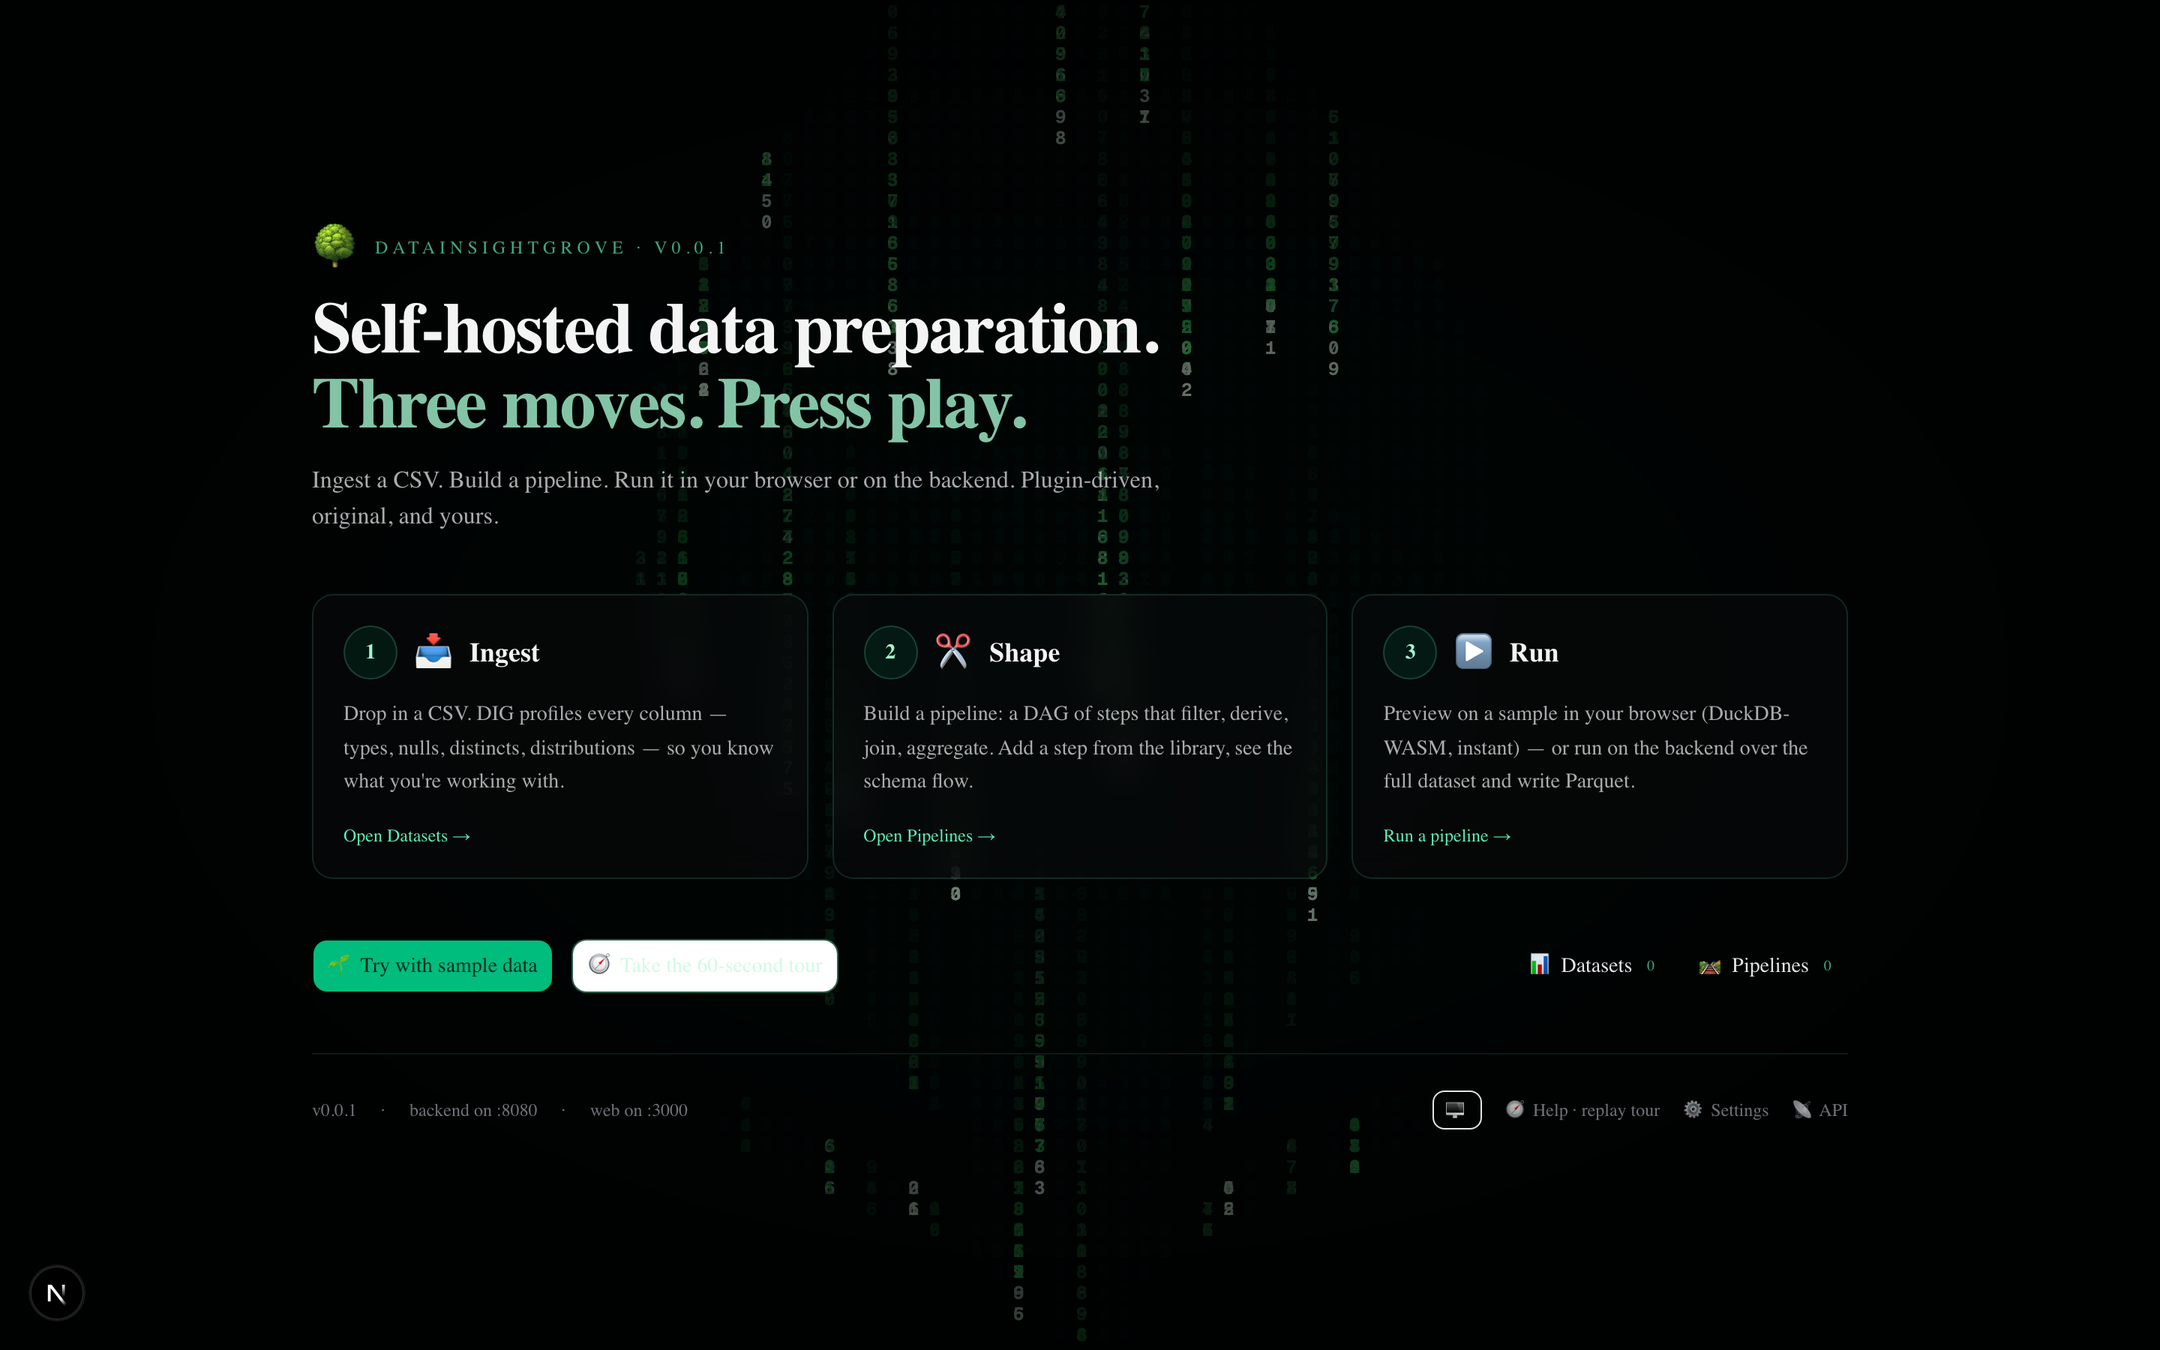
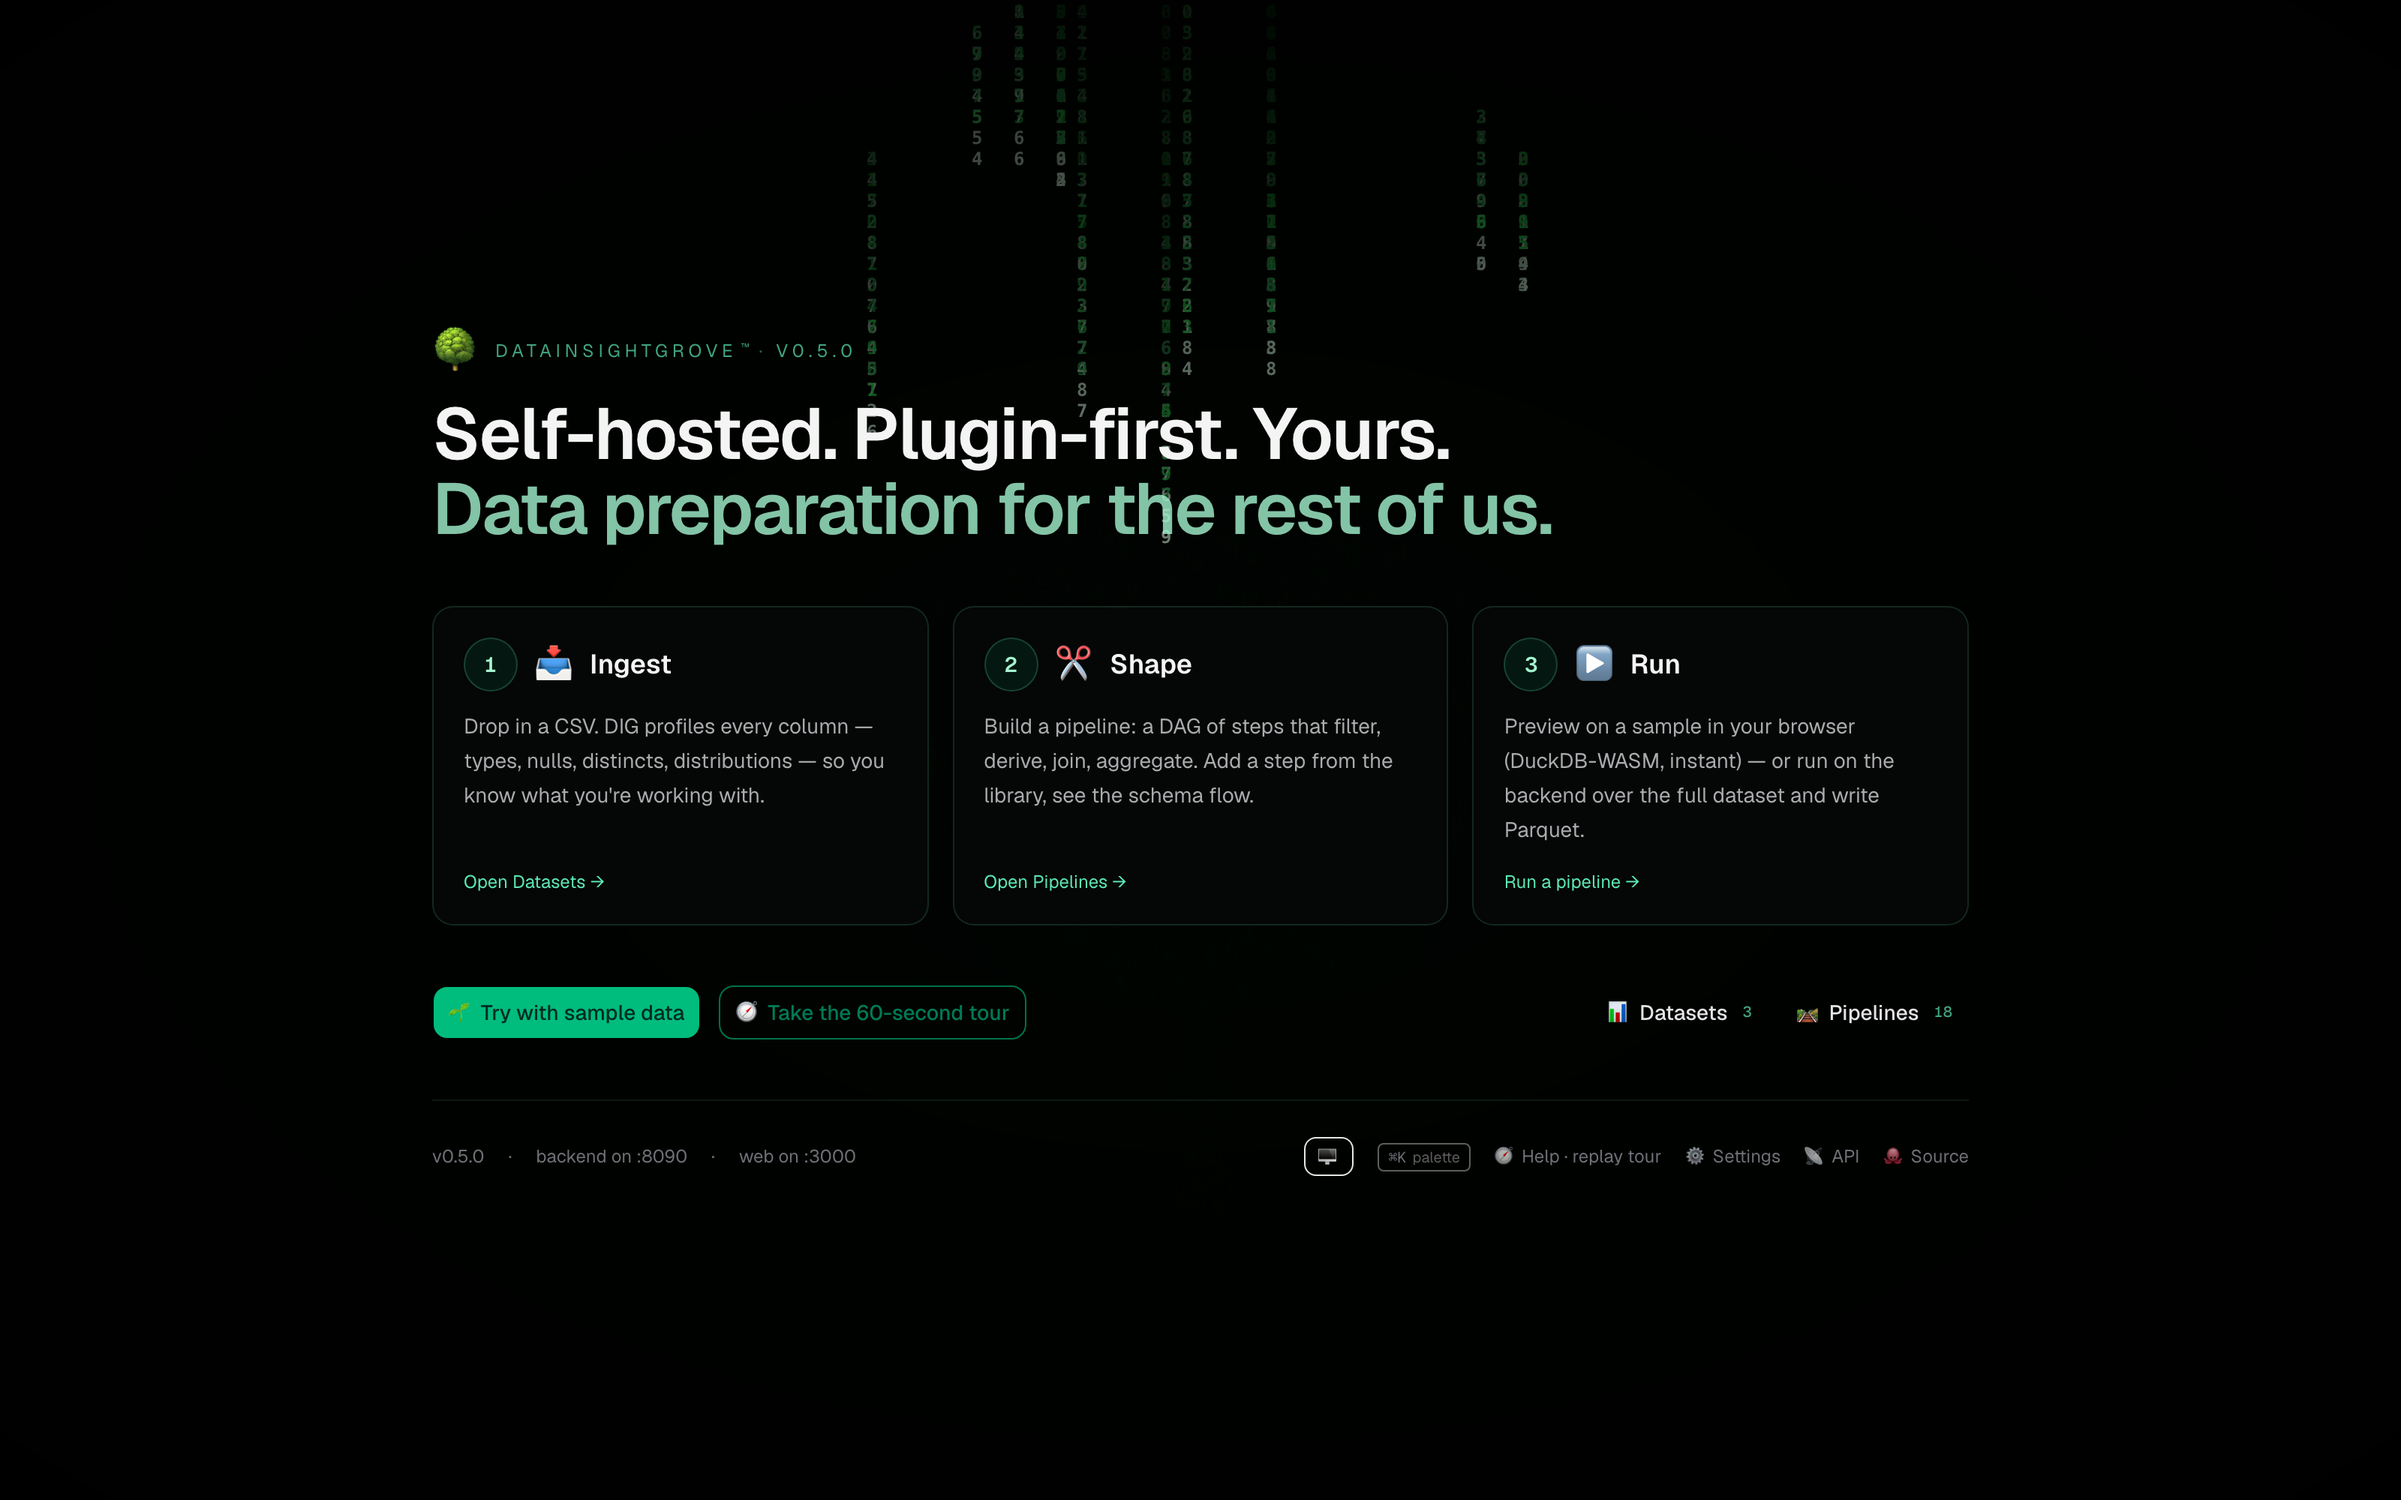
README: refresh content and screenshots to match current state
- Tagline aligned to the home-page UI hero ("Self-hosted. Plugin-first.
  Yours. Data preparation for the rest of us.").
- "What ships today" rewritten:
  - 46 → 51 steps (added array_length, embed_text, geo_distance,
    json_extract, pack_struct, unnest_array, unpack_struct,
    vector_similarity).
  - 8 → 16 connectors, grouped by Text / Scientific binary / Network +
    DB. Calls out the [science] extra for h5/mat/nc/fits.
  - New "AI assistant" bullet (Explain / Suggest / Fix / Generate).
  - New "Per-row lineage" + "Schedules" + "Transparent backend
    fallback" callouts.
  - Dropped stale "31 parity tests pass" exact count.
- Hero blurb expanded to mention scientific binary formats + AI.
- Layout box: dropped the misleading "IP / terminology" reference
  (that doc lives in internal/, not docs/).
- Refreshed both hero images:
  - docs/images/02-home.png — fresh home page (matrix backdrop, three
    workflow cards, footer counters).
  - docs/images/02-pipeline-flow.png — current editor showing Add
    dataset, Suggest, Explain, Run on backend, Strip/Graph toggle,
    Group & aggregate step open in the right panel.

diff --git a/README.md b/README.md
@@ -1,6 +1,6 @@
 # 🌳 DataInsightGrove™ (DIG™)
 
-> *Data preparation for the rest of us.*
+> *Self-hosted. Plugin-first. Yours. Data preparation for the rest of us.*
 
 [![Source](https://img.shields.io/badge/source-github.com%2FSFCyris%2FDataInsightGrove-2ea44f)](https://github.com/SFCyris/DataInsightGrove)
 [![License: AGPL-3.0](https://img.shields.io/badge/license-AGPL--3.0--or--later-blue)](LICENSE)
@@ -9,9 +9,9 @@
 
 > 🧪 **Beta software (v0.5.0).** DIG works end-to-end and the architecture is stable, but the API surface, plugin contracts, and on-disk format may still shift before v1.0.0. **Comments, bug reports, and feature requests are very welcome** — open an [issue](https://github.com/SFCyris/DataInsightGrove/issues) or join a [discussion](https://github.com/SFCyris/DataInsightGrove/discussions) on GitHub.
 
-**Self-hosted, plugin-first data preparation — the same visual pipeline runs in your browser (DuckDB-WASM, instant preview) or on the backend (DuckDB, full data), with ML, time-series, per-row lineage, and one-click `.py` / `.ipynb` export.**
+**Self-hosted, plugin-first data preparation — the same visual pipeline runs in your browser (DuckDB-WASM, instant preview) or on the backend (DuckDB, full data). AI-assisted (explain, suggest, fix) with a bring-your-own provider. Reads CSV, Excel, JSON, Parquet, plus scientific binary formats out of the box (HDF5, NumPy, FITS, NetCDF, MATLAB, Feather). ML, time-series, per-row lineage, cron-scheduled runs, and one-click `.py` / `.ipynb` export.**
 
-Drop in a CSV. Build a transform pipeline visually. Press play. Plugin-first ("drop a folder, get a step"), original implementation, yours.
+Drop in a CSV — or a `.h5`, `.fits`, `.mat`, `.parquet`. Shape it visually. Press play. Plugin-first ("drop a folder, get a step"), original implementation, yours.
 
 ![DIG running as a native Mac app — “Self-hosted. Plugin-first. Yours. / Data preparation for the rest of us.”](docs/images/01-mac-app-hero.png)
 
@@ -35,17 +35,22 @@ Spreadsheet-grade direct manipulation, with a real pipeline behind every move. T
 
 ## What ships today
 
-- **46 steps** across 6 categories: shape, clean, derive (incl. **PCA · k-means · DBSCAN · t-SNE · UMAP · linear regression · forecast · seasonal decompose · rolling · convert_coordinates** for polar↔Cartesian↔geographic), combine (incl. **sub-pipelines**), aggregate (incl. **resample · correlation matrix**), **output** (file / database / image render via matplotlib + seaborn). Plus a `expectations` step for inline data-quality assertions.
-- **8 connectors**: csv · parquet · excel · json · https · sqlite · postgres · mysql.
-- **Live editor** with auto-recompute, column-action menu, ⌘+click cell-to-filter, drag-to-reorder pills, undo/redo, multi-session sync via WebSocket + ETag conflicts.
-- **Rule-based hints** in a side panel — deterministic data-preparation suggestions surfaced from the column profile (not ML predictions, not selection-driven, not a ranked card stack).
+- **51 steps** across 6 categories: shape (incl. **pack_struct · unpack_struct · unnest_array · array_length** for nested types), clean, derive (incl. **PCA · k-means · DBSCAN · t-SNE · UMAP · linear regression · forecast · seasonal decompose · rolling**, **convert_coordinates** for polar↔Cartesian↔geographic, **vector_similarity · embed_text · geo_distance · json_extract**), combine (incl. **sub-pipelines**), aggregate (incl. **resample · correlation matrix**), **output** (file / database / image render via matplotlib + seaborn). Plus an `expectations` step for inline data-quality assertions.
+- **16 connectors**:
+  - *Text*: csv (with delimiter sniffing for `.dat` / `.data` / `.tab` / `.psv`) · excel (multi-sheet + multi-data-island detection) · json · parquet · feather.
+  - *Scientific binary* (under the optional `[science]` extra): NumPy (`.npy` / `.npz`) · HDF5 · MATLAB · NetCDF · FITS.
+  - *Network + database*: https · rest_api (auth + JSONPath + pagination) · sqlite · postgres · mysql · jdbc.
+- **AI assistant** (optional, bring-your-own provider — local Ollama, OpenAI-compatible, or Anthropic): **Explain** the pipeline · **Suggest** the next step from a plain-English goal · **Fix** SQL expressions in filter / derive · **Generate** a connector from a URL (with static-lint safety check before install).
+- **Live editor** with auto-recompute, column-action menu, ⌘+click cell-to-filter, drag-to-reorder pills, undo/redo, multi-session sync via WebSocket + ETag conflicts. **Transparent backend fallback** when DuckDB-WASM can't run the SQL (e.g. spatial GEOMETRY) — preview routes to backend, status badge marks it.
+- **Rule-based hints** in a side panel — deterministic data-preparation suggestions surfaced from the column profile (not ML predictions, not selection-driven, not a ranked card stack). One-click composites for common patterns (e.g. *(LATITUDE, LONGITUDE) → pack & cast to geographic*).
+- **Per-row lineage** — opt-in tracing so you can click 🔍 on any output row and jump back to the input row(s) it came from.
+- **Schedules** — cron-driven recurring runs from the Schedules page (or `dig-schedule.sh` from the CLI).
 - **Pipeline export / import** as portable `.dig.json` files; whole-page drop zone on `/pipelines`.
-- **Templates library** — three worked starter pipelines that auto-import the demo dataset.
+- **Templates library** — worked starter pipelines that auto-import the demo dataset (incl. spatial-distance and vector-similarity demos).
 - **Command palette (⌘K)** + keyboard cheatsheet (`?`).
 - **Dark mode**, **settings page** (`/settings`), **column annotations** that travel with the dataset.
 - **Mac `.app` wrapper** (WKWebView, ad-hoc signed) and **Linux `.desktop`** integration that both wrap the same shell scripts.
-- **Cron scheduling** via `dig-schedule.sh` for recurring runs.
-- **31 backend parity tests pass** (every transform step verified byte-identical between backend DuckDB and DuckDB-WASM target).
+- **Backend parity tests** verify byte-identical output between backend DuckDB and DuckDB-WASM target for every transform step.
 
 ## Quickstart
 
@@ -92,7 +97,7 @@ samples/                 Bundled demo CSV + starter pipeline templates
 scripts/                 dig-start.sh · dig-stop.sh · dig-status.sh · dig-config.py · dig-run.sh · dig-schedule.sh · dig-dev.sh
 mac/                     Mac .app source (Swift + WKWebView) + build.sh
 linux/                   .desktop file + dig-launch.sh + install.sh
-docs/                    Architecture, getting started, lifecycle, plugin authoring, IP / terminology
+docs/                    Architecture, getting started, lifecycle, plugin authoring, glossary
 ```
 
 ## Cross-platform discipline
